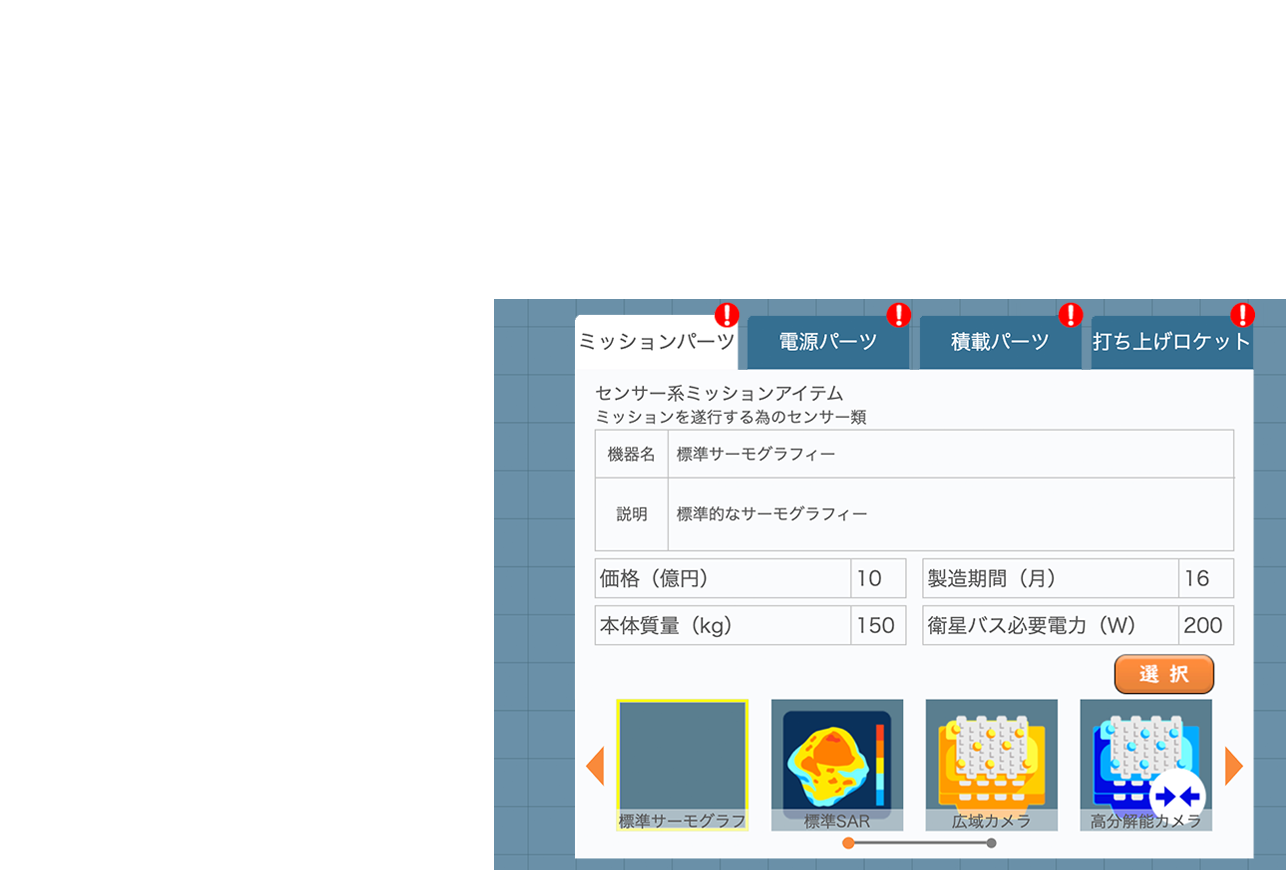
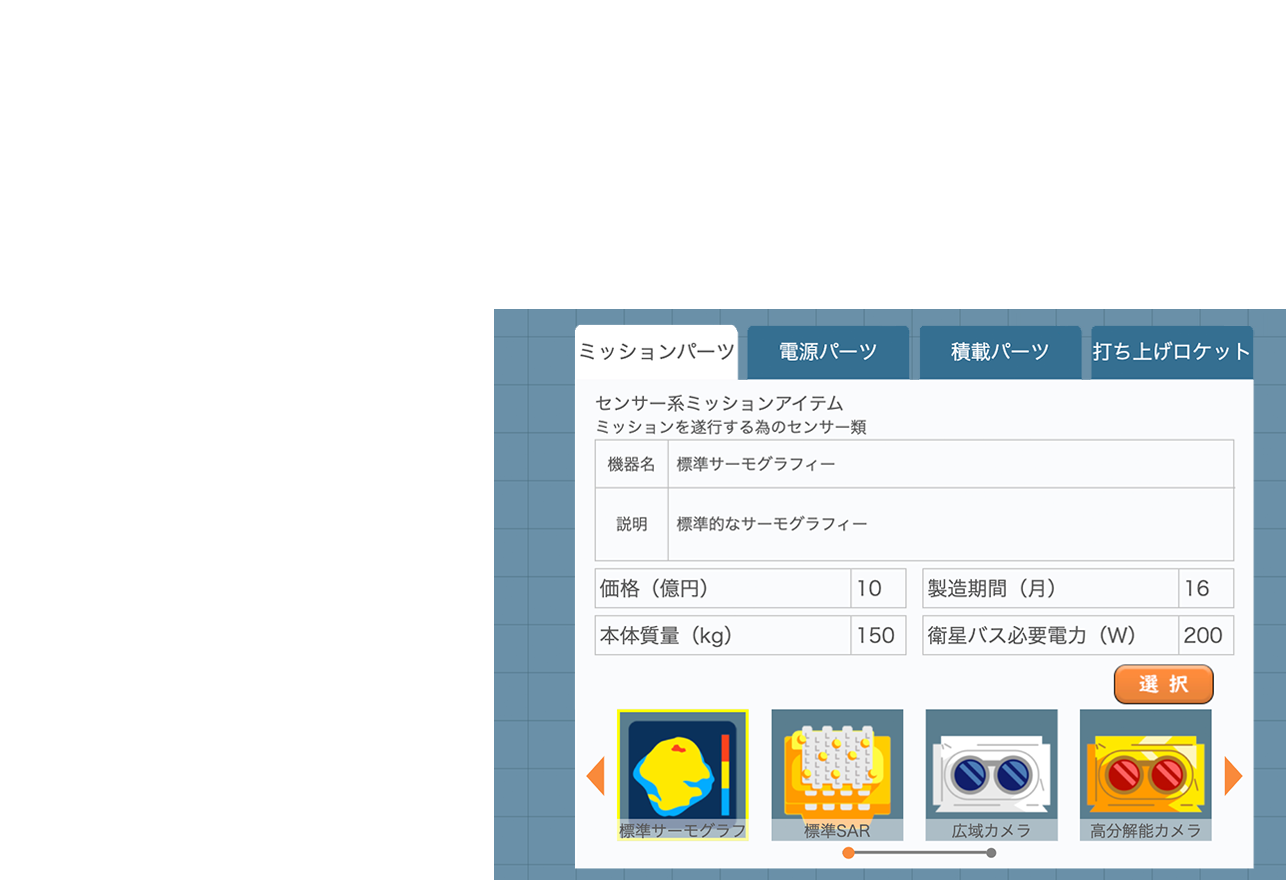
Update assets

Changed region(s): [[0.3733, 0.3337, 1.0, 1.0]]

diff --git a/src/data/assetsPath.ts b/src/data/assetsPath.ts
@@ -5426,6 +5426,9 @@ export const assetsPath: { [key in string]: string } = {
   "ST_Lv2U6_037.mp3": new URL("../assets/step/ST_Lv2U6_037.mp3", import.meta.url).toString(),
   "ST_Lv2U6_038.mp3": new URL("../assets/step/ST_Lv2U6_038.mp3", import.meta.url).toString(),
   "ST_Lv2U6_039.mp3": new URL("../assets/step/ST_Lv2U6_039.mp3", import.meta.url).toString(),
+  "button_mask.png": new URL("../assets/step/button_mask.png", import.meta.url).toString(),
+  "parameters_mask.png": new URL("../assets/step/parameters_mask.png", import.meta.url).toString(),
+  "parts_mask.png": new URL("../assets/step/parts_mask.png", import.meta.url).toString(),
   // ここから 素材用 共通素材
   "quiz_correct.mp3": new URL("../assets/prod/quiz_correct.mp3", import.meta.url).toString(),
 };
